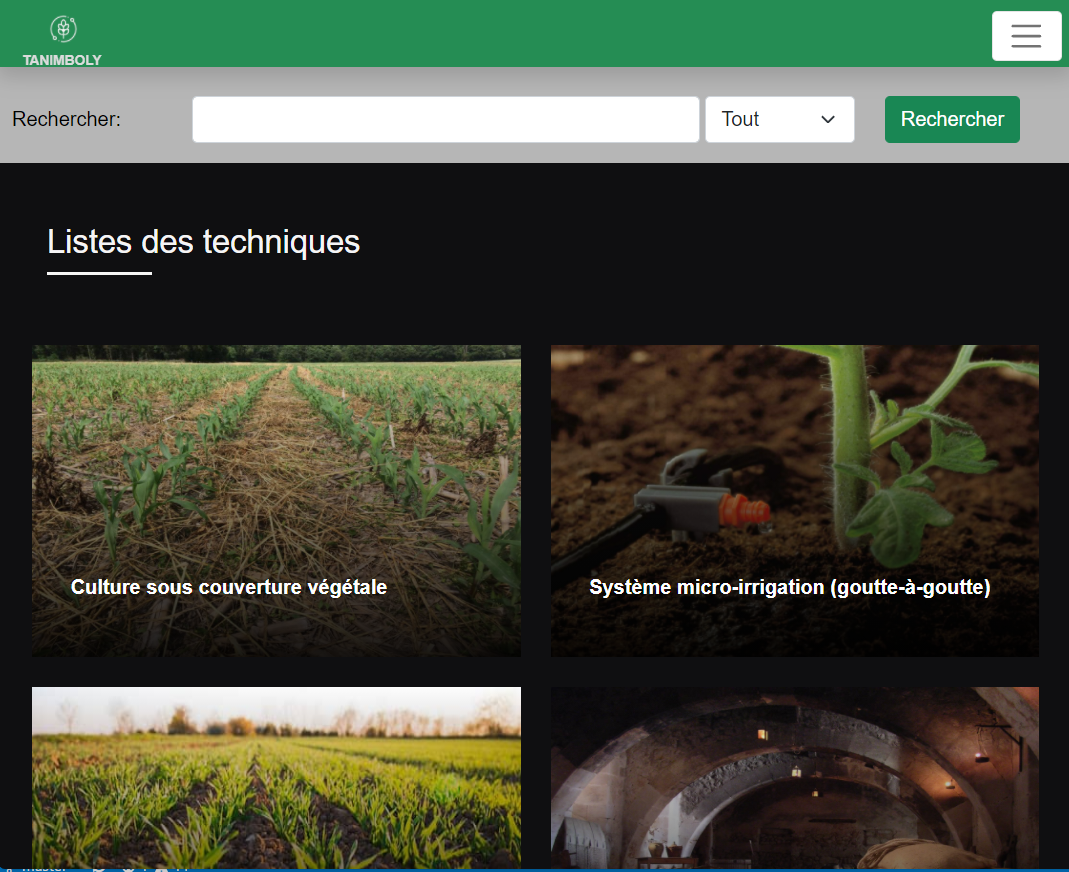
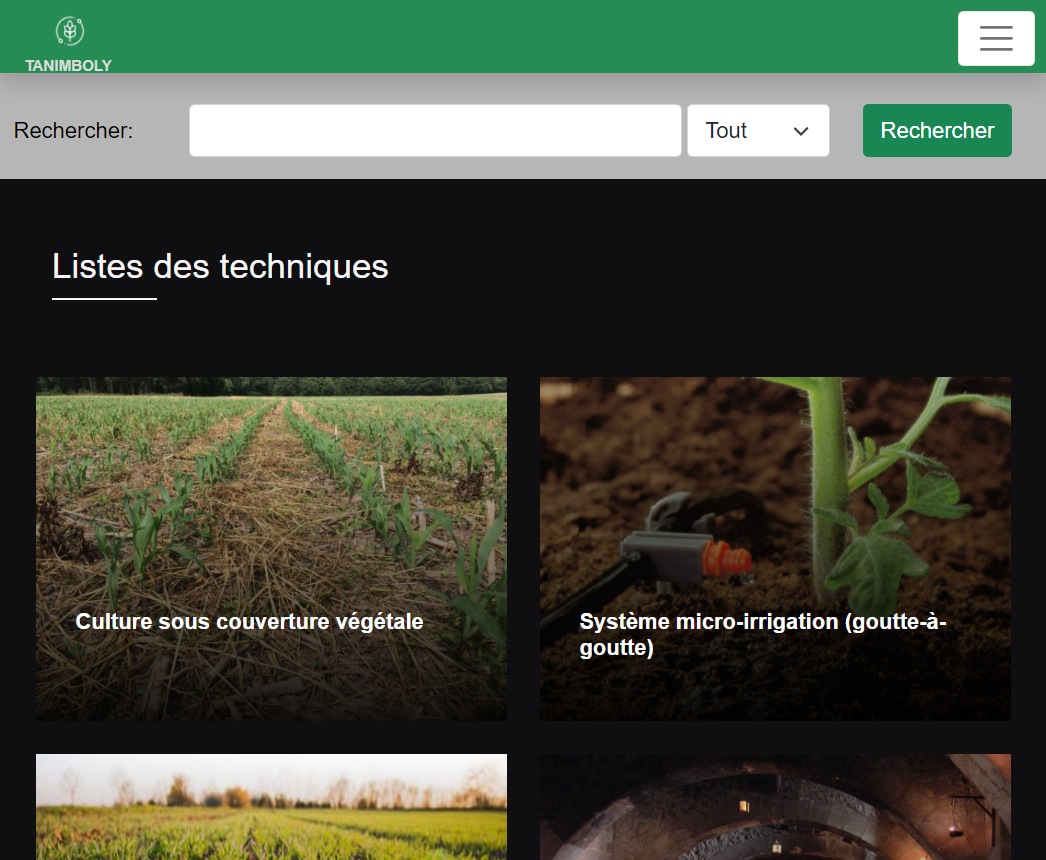
Ajout hiditra

diff --git a/src/components/Header.vue b/src/components/Header.vue
@@ -28,6 +28,9 @@
                 <li class="nav-item">
                     <router-link class="nav-link"  :style="{color:active6,fontWeight:fontWeight6}"  to="/documentation">{{OptionLangue[getLangage].doc}}</router-link>
                 </li>
+                <li class="nav-item mr-5">
+                    <router-link class="nav-link "  :style="{color:active7,fontWeight:fontWeight7}"  to="/user/login">{{OptionLangue[getLangage].login}}</router-link>
+                </li>
                 
             </ul>
             <ul class="navbar-nav me-auto d-flex langue">
@@ -75,6 +78,9 @@
                 </li>
                 <li class="nav-item mr-5">
                     <router-link class="nav-link "  :style="{color:active4,fontWeight:fontWeight4}"  to="/documentation">{{OptionLangue[getLangage].doc}}</router-link>
+                </li>
+                <li class="nav-item mr-5">
+                    <router-link class="nav-link "  :style="{color:active7,fontWeight:fontWeight7}"  to="/user/login">{{OptionLangue[getLangage].login}}</router-link>
                 </li>
             </ul>
             <ul class="navbar-nav3">
@@ -132,6 +138,10 @@ import { mapGetters,mapActions} from 'vuex'
           type:String,
           default:()=>'rgb(206, 195, 195)'
       },
+      active7:{
+          type:String,
+          default:()=>'rgb(206, 195, 195)'
+      },
       fontWeight1:{
           type:String,
           default:()=>''
@@ -153,6 +163,10 @@ import { mapGetters,mapActions} from 'vuex'
           default:()=>''
       },
       fontWeight6:{
+          type:String,
+          default:()=>''
+      },
+      fontWeight7:{
           type:String,
           default:()=>''
       },
@@ -312,7 +326,7 @@ import { mapGetters,mapActions} from 'vuex'
 
     .navbar-nav.navbar-center {
         position: absolute;
-        left: 45%;
+        left: 42%;
         transform: translatex(-50%);
     }
     .navbar-nav.navbar-center li {

diff --git a/src/views/Login.vue b/src/views/Login.vue
@@ -2,8 +2,8 @@
     <div>
         <transition name="fade">
             <div v-if="!overlay">
-                <header id="header-default"  >
-                    <Header :bgcolor="bgcolor" :active2="active6" :fontWeight2="fontWeight6"/>  
+                <header id="header-default" >
+                    <Header :bgcolor="bgcolor" :active7="active7" :fontWeight7="fontWeight7"/>  
                 </header>
               <section class="ftco-section">
               <div class="container">
@@ -78,8 +78,8 @@ export default {
     data:function() {
       return{
         bgcolor :'rgb(37, 141, 84)',
-         active6:'white!important',
-        fontWeight6:'bolder',
+         active7:'white!important',
+        fontWeight7:'bolder!important',
         overlay:true,
         timeout: null,
         user:{

diff --git a/src/components/Map.vue b/src/components/Map.vue
@@ -3,7 +3,7 @@
         <div id="desc">Test</div>
         <svg id="svg_map" baseprofile="tiny" fill="#7c7c7c" height="100%" width="100%" stroke="#ffffff" stroke-linecap="round" stroke-linejoin="round" stroke-width="2" version="1.2" :viewBox="viewBox" xmlns="http://www.w3.org/2000/svg">
             <path class="component" v-for="path in paths" v-bind:d="path.path" v-bind:id="path.id_region" v-bind:name="path.nom"
-                 @mouseover="e => overMap(e, path.nom)" @mouseleave="leaveMap" v-on:click="e => showDetail(e, path.id_region)">
+                 @mouseover="e => overMap(e, path.nom)" @mouseleave="leaveMap" v-on:click="e => showDetail(e, path.id_region)" :key="path.id_region">
                 <title>{{ path.nom }}</title>
 		    </path>
             <circle cx="918.1" cy="338.2" id="0">

diff --git a/src/service/Multilangue.js b/src/service/Multilangue.js
@@ -68,6 +68,7 @@ var langue = ({
         type_sol :" Type du sol",
         struct_sol :"Structure du sol",
         text_sol :"Texture du sol",
+        login :"Se connecter",
     },
     mg:{
         accueil : "Fandraisana" ,
@@ -138,6 +139,7 @@ var langue = ({
         type_sol :" Karazana tany",
         struct_sol :" Firafitry ny tany",
         text_sol :"Volavolan-tany ",
+        login :"Hiditra",
     }
 })
 export default langue
